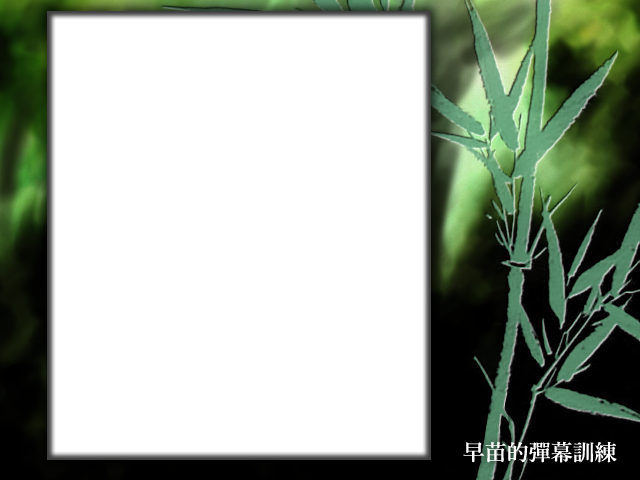
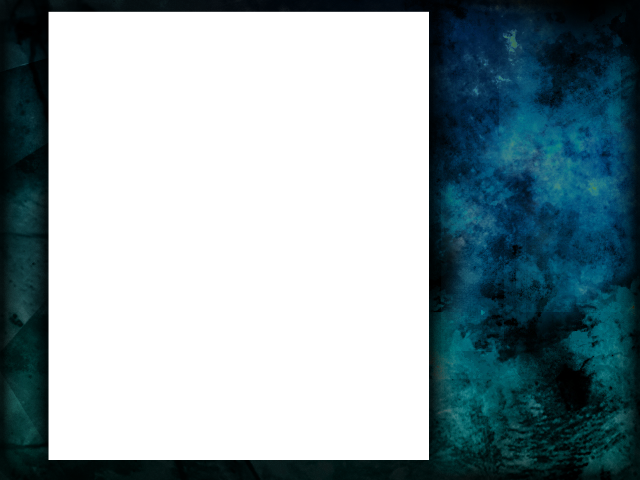
added some background... starts to looking nice..

diff --git a/core/src/com/github/bakabbq/screens/PracticeScreen.java b/core/src/com/github/bakabbq/screens/PracticeScreen.java
@@ -7,6 +7,7 @@ import com.badlogic.gdx.graphics.Color;
 import com.badlogic.gdx.graphics.Texture;
 import com.badlogic.gdx.graphics.g2d.ParticleEffect;
 import com.badlogic.gdx.graphics.g2d.ParticleEffectPool;
+import com.badlogic.gdx.graphics.g2d.SpriteBatch;
 import com.badlogic.gdx.graphics.g2d.TextureRegion;
 import com.badlogic.gdx.math.Vector2;
 import com.badlogic.gdx.physics.box2d.World;
@@ -15,6 +16,7 @@ import com.github.bakabbq.*;
 import com.github.bakabbq.audio.AudioBank;
 import com.github.bakabbq.audio.MusicBox;
 import com.github.bakabbq.audio.ThSe;
+import com.github.bakabbq.background.ThBackground;
 import com.github.bakabbq.bullets.Bullet;
 import com.github.bakabbq.bullets.BulletDef;
 import com.github.bakabbq.bullets.Laser;
@@ -63,6 +65,15 @@ public class PracticeScreen implements Screen, IDanmakuWorld{
     //Audio Components
     MusicBox musicBox;
 
+    //Background SpriteBatch
+    SpriteBatch backgroundBatch;
+
+    //Background stuff
+    ThBackground background;
+
+    //Shape Renderer - for drawing health bar
+
+
     //Box2d stuffs
     public World world;
     public BulletCollisionListener collisionListener;
@@ -81,6 +92,7 @@ public class PracticeScreen implements Screen, IDanmakuWorld{
         this.game = game;
         this.scene = scene;
 
+        backgroundBatch = new SpriteBatch();
         initObjectContainers();
         loadUiComponents();
         initAudioComponents();
@@ -123,6 +135,8 @@ public class PracticeScreen implements Screen, IDanmakuWorld{
         boss.setY(62);
         bosses.add(boss);
 
+        background = new ThBackground(this);
+
         DanmakuPlayer player = new DanmakuPlayer(this);
         player.setPos(237/10,30/5);
         players.add(player);
@@ -154,7 +168,11 @@ public class PracticeScreen implements Screen, IDanmakuWorld{
     public void render(float delta) {
 		Gdx.gl.glViewport((int) game.viewport.x, (int) game.viewport.y,
 						  (int) game.viewport.width, (int) game.viewport.height);
+        backgroundBatch.begin();
+        background.update(backgroundBatch);
+        backgroundBatch.end();
         game.batch.begin();
+
         renderShooters();
         renderEffects();
         renderBullets();
@@ -164,6 +182,7 @@ public class PracticeScreen implements Screen, IDanmakuWorld{
 		Gdx.gl.glViewport((int) game.viewport.x, (int) game.viewport.y,
 						  (int) game.viewport.width, (int) game.viewport.height);
         game.uiBatch.begin();
+
         renderUI();
 
         game.uiBatch.end();
@@ -308,7 +327,7 @@ public class PracticeScreen implements Screen, IDanmakuWorld{
 
     void renderFps(){
         int fps = Gdx.graphics.getFramesPerSecond();
-        getFontBank().arial.draw(game.uiBatch,"" + fps, 30 , 450);
+        getFontBank().arial.draw(game.uiBatch,"" + fps, 610 , 20);
     }
 
     public FontBank getFontBank(){

diff --git a/core/src/com/github/bakabbq/background/ThBackground.java b/core/src/com/github/bakabbq/background/ThBackground.java
@@ -1,6 +1,11 @@
 package com.github.bakabbq.background;
 
+import com.badlogic.gdx.Gdx;
+import com.badlogic.gdx.graphics.Texture;
+import com.badlogic.gdx.graphics.g2d.Sprite;
 import com.badlogic.gdx.graphics.g2d.SpriteBatch;
+import com.badlogic.gdx.graphics.g2d.TextureRegion;
+import com.badlogic.gdx.scenes.scene2d.utils.TiledDrawable;
 import com.github.bakabbq.GdxGround;
 import com.github.bakabbq.IDanmakuWorld;
 
@@ -9,15 +14,58 @@ import com.github.bakabbq.IDanmakuWorld;
  */
 public class ThBackground {
     IDanmakuWorld ground;
+
+    Texture texture1;
+    Texture texture2;
+
+    TiledDrawable tile1;
+    TiledDrawable tile2;
+
+    Sprite sprite1;
+    Sprite sprite2;
+
+    Sprite test;
+    public int timer;
     public ThBackground(IDanmakuWorld ground){
         this.ground = ground;
+        texture1 = new Texture(Gdx.files.internal("backgrounds/cdbg01a.png"));
+        texture2 = new Texture(Gdx.files.internal("backgrounds/cdbg01b.png"));
+        texture1.setWrap(Texture.TextureWrap.Repeat, Texture.TextureWrap.Repeat);
+        texture2.setWrap(Texture.TextureWrap.Repeat, Texture.TextureWrap.Repeat);
+
+        sprite1 = new Sprite(texture1,0,0,640 + 256,700 + 256);
+        sprite2 = new Sprite(texture2,0,0,640 + 256,480 + 256);
+        sprite2.setPosition(-256,-256);
+        sprite1.setPosition(-256,-256);
+        sprite1.setAlpha(180f/255);
+
+        sprite2.setAlpha(200f/255);
+        //test.setScale(0.2f);
+
+        tile1 = new TiledDrawable(new TextureRegion(texture1));
+        tile2 = new TiledDrawable(new TextureRegion(texture2));
+
+        timer = 0;
     }
 
     //public void update(){
     //    render(ground.background);
     //}
 
-    public void render(SpriteBatch batch){
+    public void update(SpriteBatch batch){
+        timer++;
+        mainLoop(batch);
+    }
+
+    void mainLoop(SpriteBatch batch){
+        sprite2.setPosition(-256 + timer % 256, -256 +timer % 256);
+        sprite2.draw(batch);
+        sprite1.setPosition(-256 + 256 - timer % 256, -256 +timer % 256);
+        //sprite1.setPosition(sprite2.getRegionWidth() - timer % sprite2.getRegionWidth(), sprite2.getRegionHeight() - timer % sprite2.getRegionHeight());
+        sprite1.draw(batch);
+    }
+
+    void drawBackgroundAtBatch(Texture texture, SpriteBatch batch, int x, int y){
 
     }
 

diff --git a/core/src/com/github/bakabbq/shooters/bosses/kanako/spellCard1.java b/core/src/com/github/bakabbq/shooters/bosses/kanako/spellCard1.java
@@ -1,4 +1,4 @@
-package src.com.github.bakabbq.shooters.bosses.kanako;
+package com.github.bakabbq.shooters.bosses.kanako;
 import com.github.bakabbq.bullets.*;
 import com.github.bakabbq.shooters.bosses.*;
 import com.github.bakabbq.spellcards.*;
@@ -19,7 +19,7 @@ public class spellCard1 extends SpellCard
     public void mainLoop(){
 		if(timer % 10 == 0){
 			//owner.nWayAngeledSpreadShot(new BulletKunai(0), 3, 5,timer % 360, 25, 20);
-            owner.shoot(new BulletKnife(0), 0, 1);
+            //owner.shoot(new BulletKnife(0), 0, 1);
 		}
     } // void mainLoop
 	

diff --git a/core/src/com/github/bakabbq/shooters/bosses/kanako/BossKanako.java b/core/src/com/github/bakabbq/shooters/bosses/kanako/BossKanako.java
@@ -6,7 +6,7 @@ import com.github.bakabbq.IDanmakuWorld;
 import com.github.bakabbq.StateHelper;
 import com.github.bakabbq.shooters.bosses.ThBoss;
 import com.github.bakabbq.shooters.bosses.testsanae.TestSpellCard;
-import src.com.github.bakabbq.shooters.bosses.kanako.*;
+import com.github.bakabbq.shooters.bosses.kanako.*;
 
 /**
  * Created by LBQ on 8/2/14.

diff --git a/core/src/com/github/bakabbq/bullets/Bullet.java b/core/src/com/github/bakabbq/bullets/Bullet.java
@@ -139,7 +139,6 @@ public class Bullet {
 
     public void onGraze(){
         danmakuWorld.getPlayer().grazeCnt += 1;
-        //Gdx.app.log("Graze", "Player Graze: " + ((GdxGround) Gdx.app.getApplicationListener()).player.grazeCnt);
         grazed = true;
     }
 

diff --git a/README.md b/README.md
@@ -3,7 +3,11 @@ Danmaku Storm
 ### 2d Touhou Shooter Engine / Game
 Currently Still in Development
 
-The author is currently learning glsl to make touhou-like backgrounds...
-development will be slowed down
+##About using Box2d
+yeah it might be a bad idea and I am currently regreting it...
+but who knows._., bullets can become fun with some physics shenanigans...
 
-I must say that the code looks like a complete mess right now ._____.
+##About using ripped images from Touhou
+Yeah I know it isn't right..
+but i really HAVE NO TIME to recreate bullet sheets only for testing this engine
+so just give me a break...
